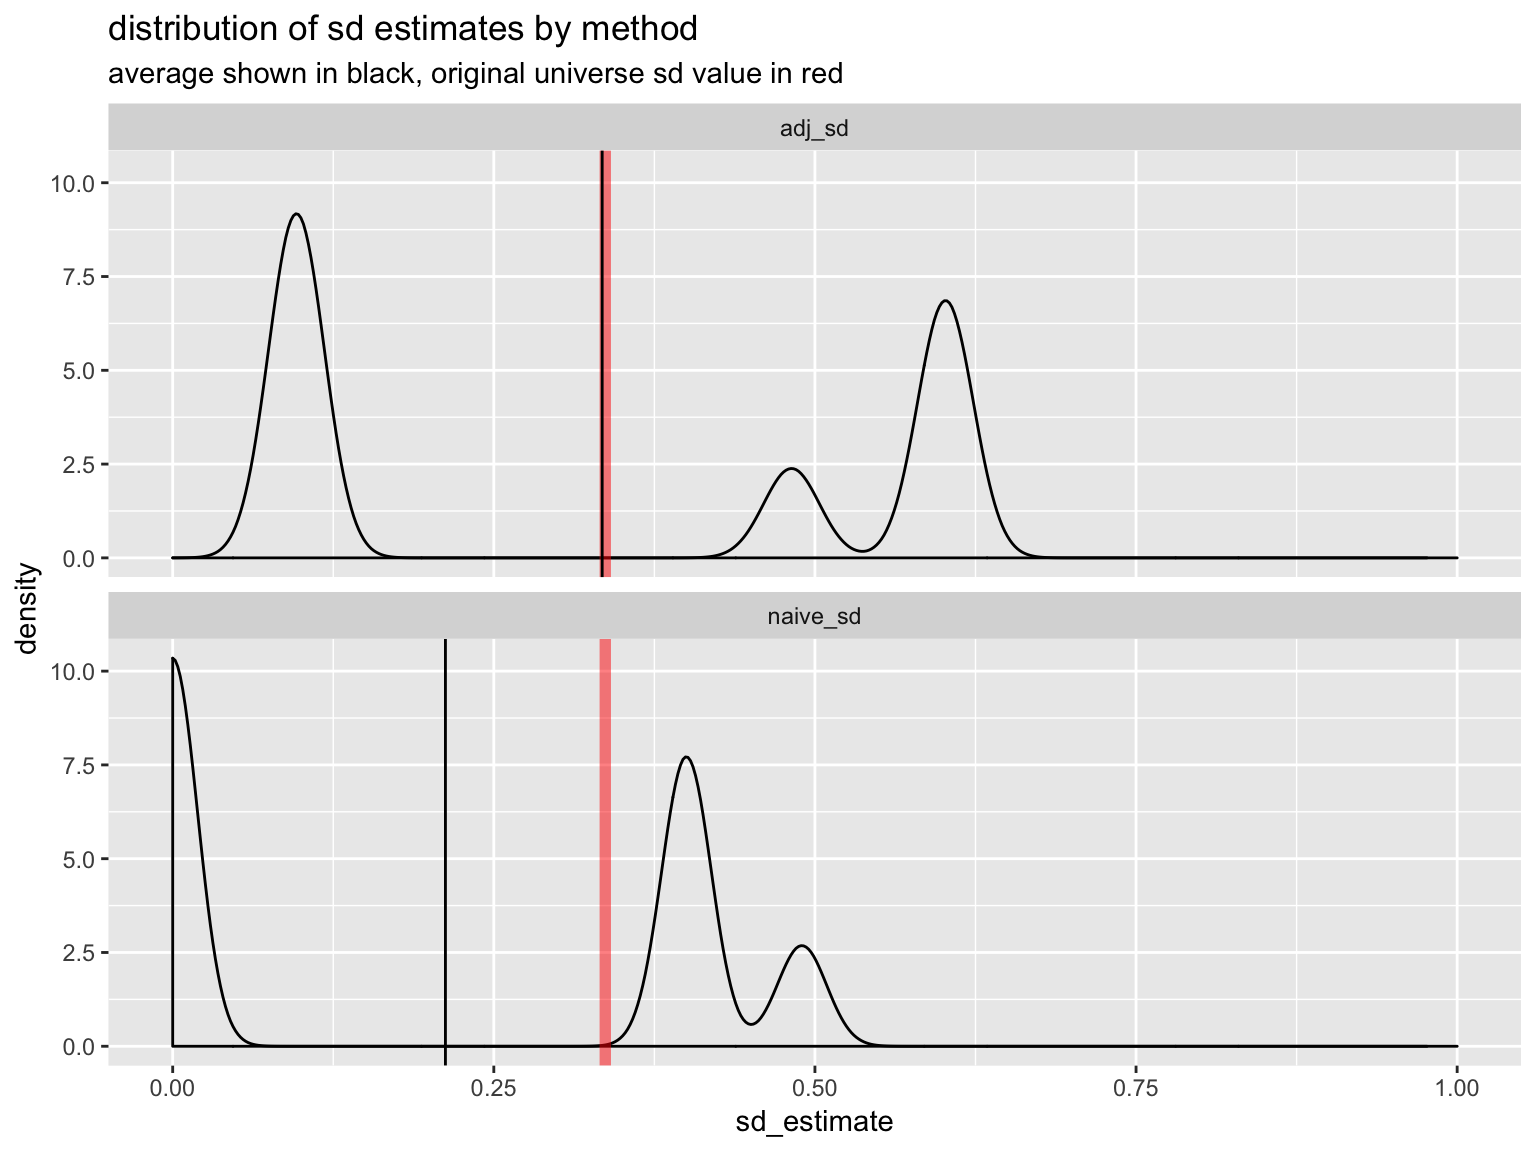
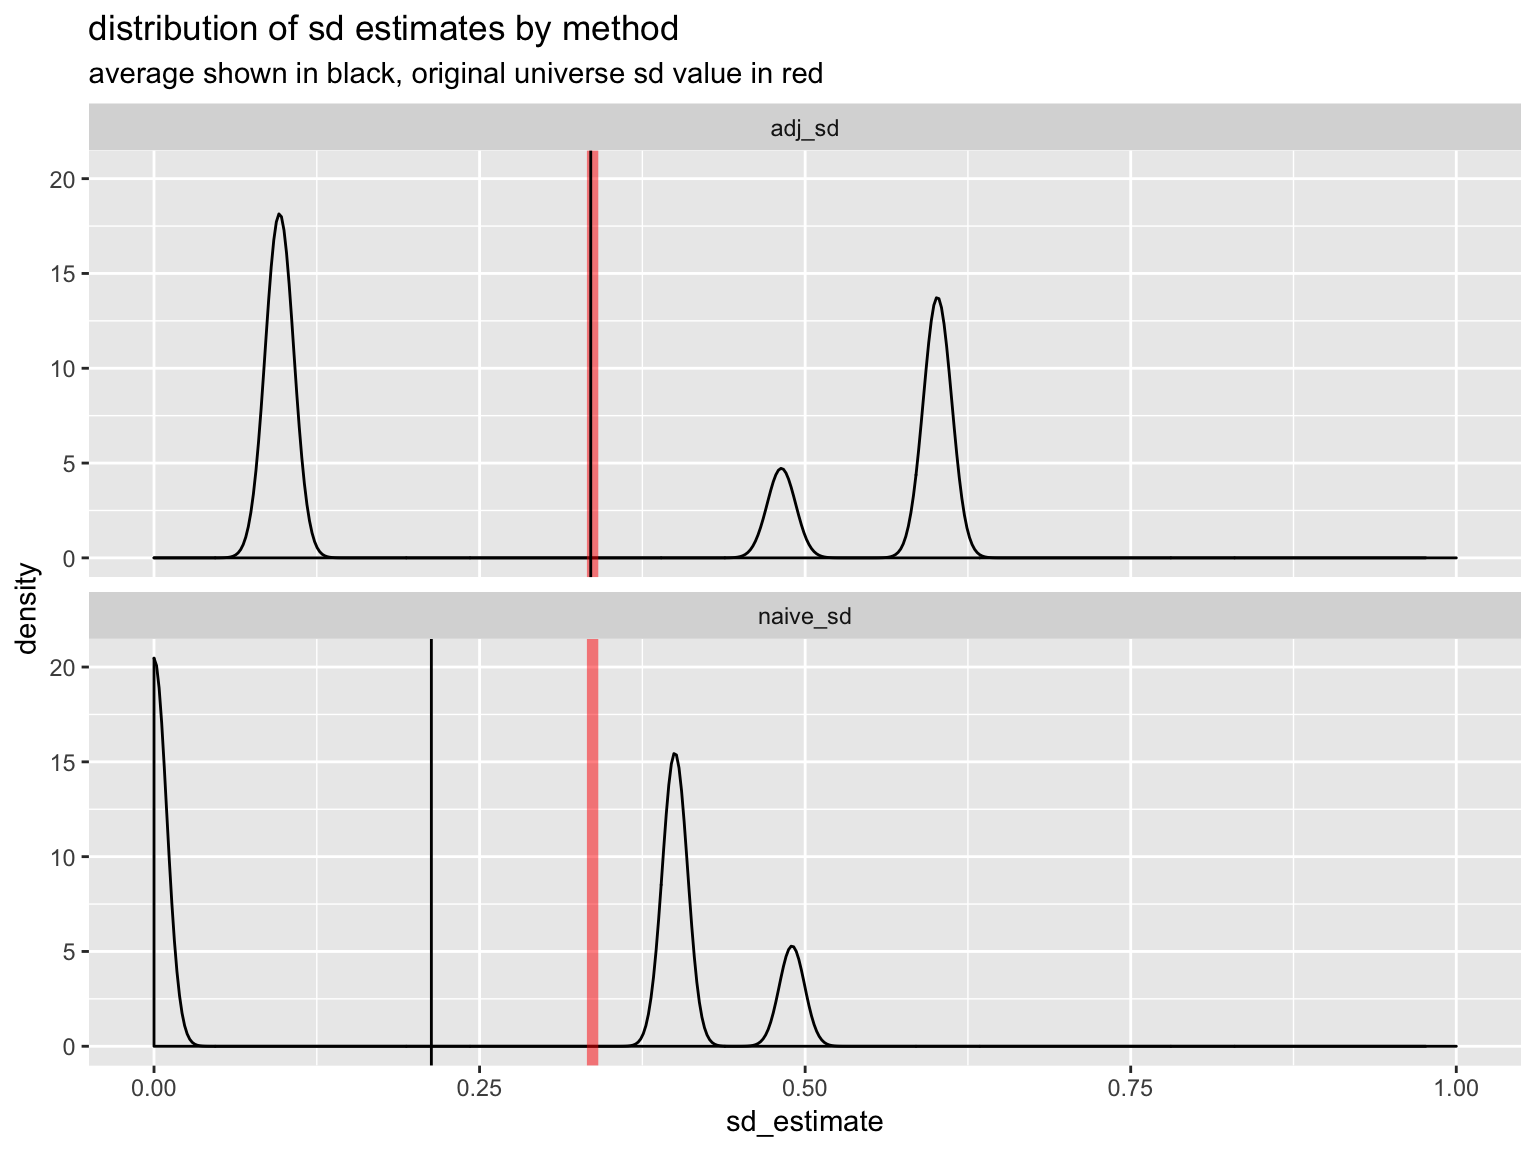
re-render

diff --git a/extras/BiasEsts.md b/extras/BiasEsts.md
@@ -487,8 +487,8 @@ sums <- as.data.frame(lapply(res, mean))
 print(sums)
 ```
 
-    ##      mean      var        sd naive_var naive_sd    adj_sd
-    ## 1 0.86956 0.113288 0.2373933 0.0906304 0.212331 0.3343608
+    ##       mean     var        sd naive_var  naive_sd    adj_sd
+    ## 1 0.869408 0.11357 0.2381174  0.090856 0.2129787 0.3353563
 
 ``` r
 print("sds of aggregates")
@@ -501,8 +501,8 @@ sdss <- as.data.frame(lapply(res, sd))
 print(sdss)
 ```
 
-    ##        mean       var        sd  naive_var naive_sd    adj_sd
-    ## 1 0.1509809 0.1170682 0.2386064 0.09365457 0.213416 0.2400813
+    ##        mean       var        sd  naive_var  naive_sd   adj_sd
+    ## 1 0.1506053 0.1169384 0.2384757 0.09355073 0.2132992 0.240213
 
 ``` r
 print("stddev est from aggregate mean")
@@ -543,22 +543,25 @@ print(p2)
 <img src="BiasEsts_files/figure-markdown_github/run-23.png" width="768" />
 
 ``` r
-cT <- build_unpivot_control(nameForNewKeyColumn = "estimation_method",
+# cT <- build_unpivot_control(nameForNewKeyColumn = "estimation_method",
+#                             nameForNewValueColumn = "sd_estimate",
+#                             columnsToTakeFrom = c("adj_sd", "naive_sd"))
+# rp <- rowrecs_to_blocks(res,
+#                         controlTable = cT)
+rp <- unpivot_to_blocks(res,
+                        nameForNewKeyColumn = "estimation_method",
                         nameForNewValueColumn = "sd_estimate",
                         columnsToTakeFrom = c("adj_sd", "naive_sd"))
-rp <- rowrecs_to_blocks(res, 
-                        controlTable = cT,
-                        checkKeys = FALSE,
-                        use_data_table = FALSE)
 
-ef <- project_nse(rp, sd_estimate = mean(sd_estimate), 
+ef <- project_nse(rp, 
+                  sd_estimate = mean(sd_estimate), 
                   groupby = "estimation_method")
 
 p3 <- ggplot(data = rp, aes(x = sd_estimate)) +
-  geom_density() + 
+  geom_density(adjust = 0.5) + 
   geom_vline(xintercept = su$naive_sd, color = "red", alpha = 0.5, size=2) + 
   geom_vline(data = ef, aes(xintercept = sd_estimate)) +
-  xlim(0, 1) +
+  xlim(0, 1) +  
   facet_wrap(~estimation_method, ncol=1) +
   ggtitle("distribution of sd estimates by method",
           subtitle = "average shown in black, original universe sd value in red")
@@ -566,6 +569,22 @@ print(p3)
 ```
 
 <img src="BiasEsts_files/figure-markdown_github/run-24.png" width="768" />
+
+``` r
+p4 <- ggplot(data = rp, aes(x = sd_estimate)) +
+  geom_histogram(bins = 30) +
+  geom_vline(xintercept = su$naive_sd, color = "red", alpha = 0.5, size=2) + 
+  geom_vline(data = ef, aes(xintercept = sd_estimate)) +
+  xlim(-0.1, 1) +  # work around histogram bug
+  facet_wrap(~estimation_method, ncol=1) +
+  ggtitle("distribution of sd estimates by method",
+          subtitle = "average shown in black, original universe sd value in red")
+print(p4)
+```
+
+    ## Warning: Removed 2 rows containing missing values (geom_bar).
+
+<img src="BiasEsts_files/figure-markdown_github/run-25.png" width="768" />
 
 ``` r
 parallel::stopCluster(cl)
